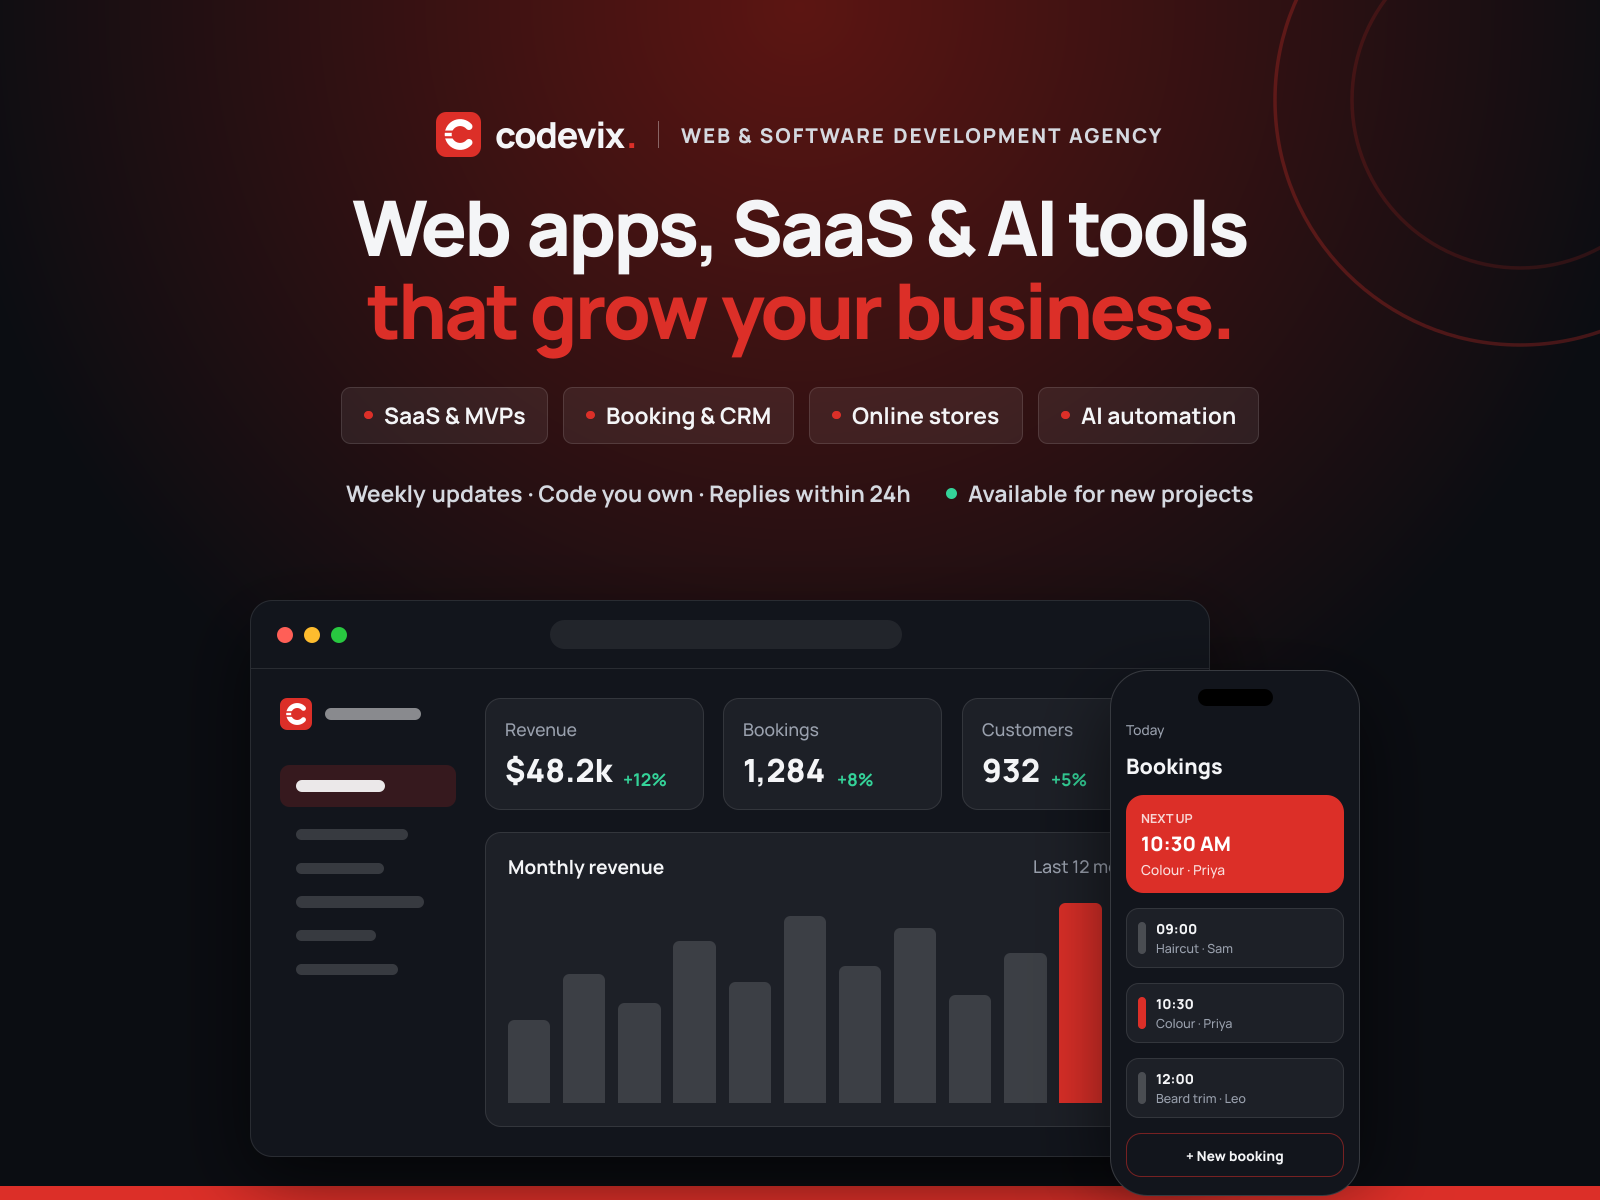
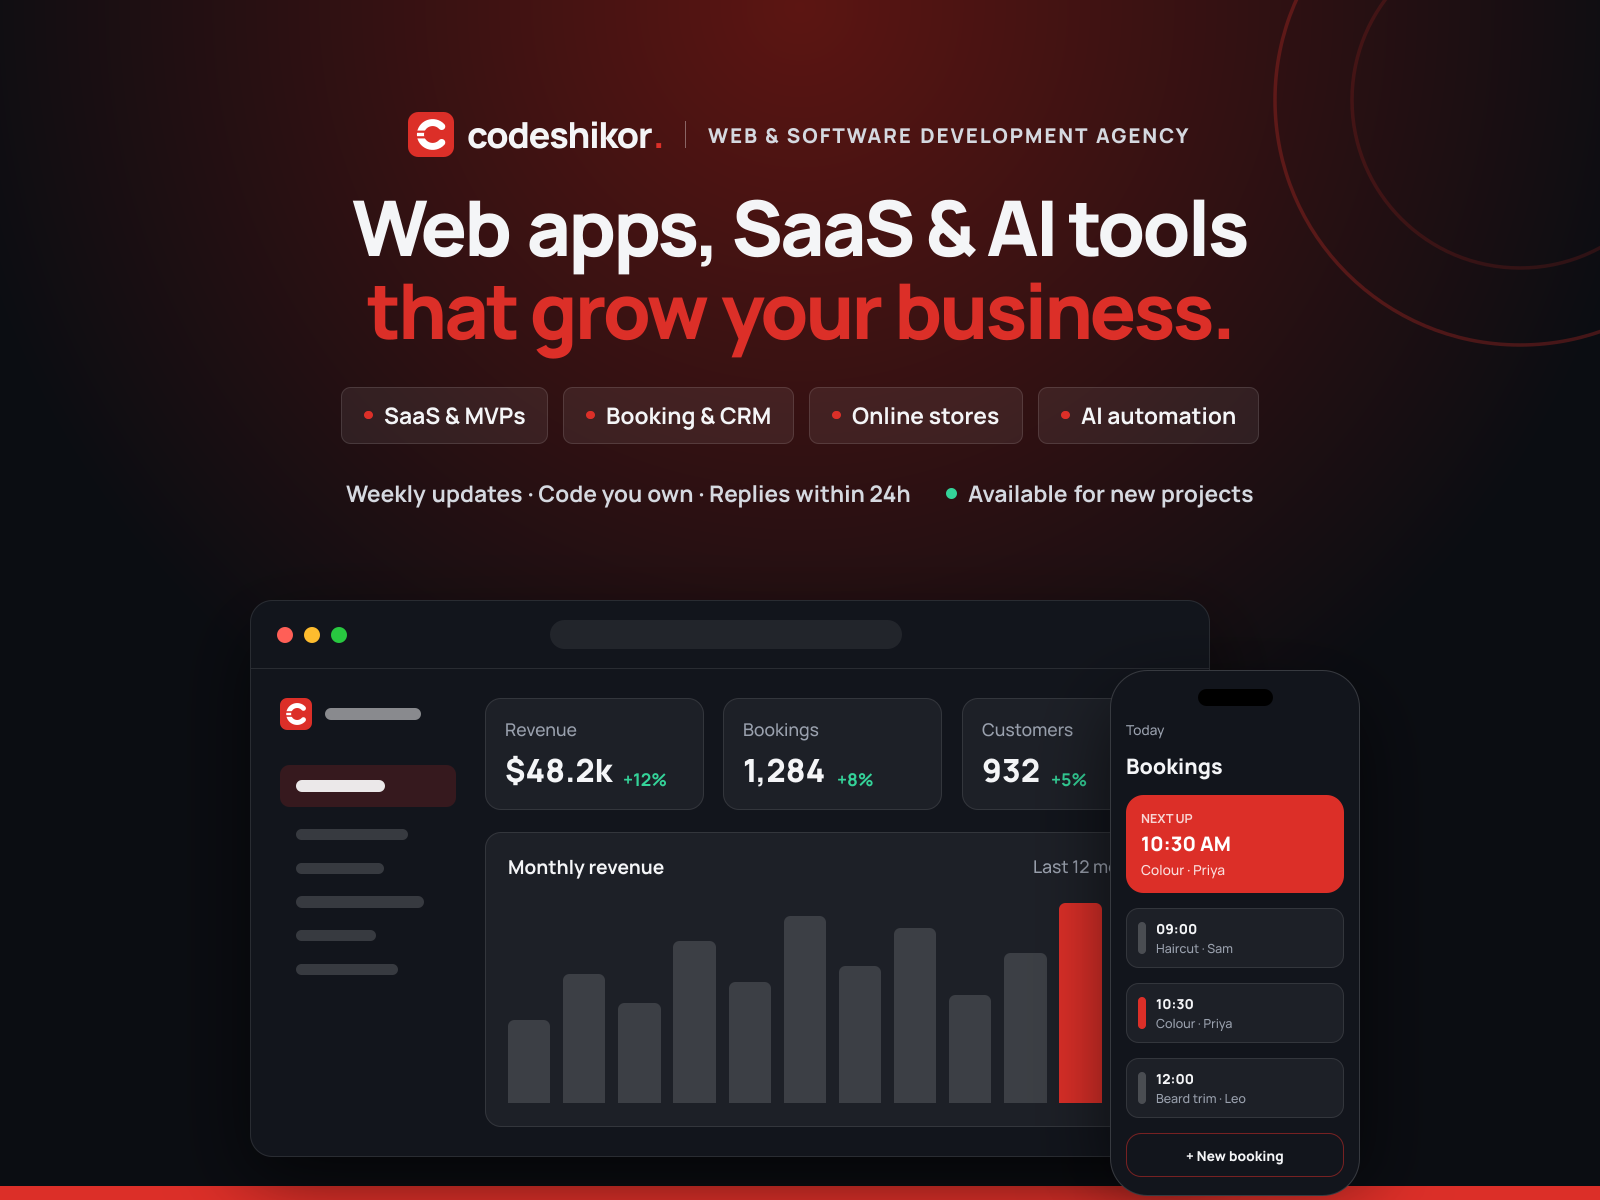
Rebrand from Codevix to Codeshikor
Another established agency already trades as Codevix, so the brand moves to
Codeshikor (Bangla shikor: root). Updates site name, copy, README, social copy
and regenerates all banners. The Stack C mark and colours are unchanged.

Changed region(s): [[0.25, 0.0925, 0.75, 0.1542]]

diff --git a/src/data/site.ts b/src/data/site.ts
@@ -6,9 +6,9 @@ const unsplash = (id: string, w = 1200) =>
 
 export const site = {
   /** Brand shown in the logo */
-  brand: "codevix",
+  brand: "codeshikor",
   /** Name used in page titles, copyright and descriptions */
-  name: "Codevix",
+  name: "Codeshikor",
   role: "Web & Software Development Agency",
   location: "Bagha, Rajshahi, Bangladesh",
   /** Structured address for search engines (country is the ISO code) */
@@ -22,7 +22,7 @@ export const site = {
   /** Live domain: used for canonical URLs, the sitemap, robots.txt and social previews */
   url: "https://alexrivera.dev",
   description:
-    "Codevix is a web development agency building websites, SaaS products and AI tools with Next.js, Vue.js and Laravel for startups and growing businesses.",
+    "Codeshikor is a web development agency building websites, SaaS products and AI tools with Next.js, Vue.js and Laravel for startups and growing businesses.",
   socials: [
     { label: "GitHub", href: "https://github.com/Hshamim" },
     { label: "LinkedIn", href: "https://www.linkedin.com/in/shamim-hosen-254697122/" },
@@ -148,13 +148,13 @@ export const tools = [
 export const testimonials = [
   {
     quote:
-      "Codevix turned a vague idea into a web app our customers genuinely love. Sign-ups doubled within the first month of launch.",
+      "Codeshikor turned a vague idea into a web app our customers genuinely love. Sign-ups doubled within the first month of launch.",
     name: "Sarah Chen",
     title: "Founder, Lumen Health",
   },
   {
     quote:
-      "A rock-solid Laravel backend and a front end that is incredibly fast. Codevix shipped in weeks what we had planned for months.",
+      "A rock-solid Laravel backend and a front end that is incredibly fast. Codeshikor shipped in weeks what we had planned for months.",
     name: "Marcus Webb",
     title: "CTO, Fieldstack",
   },

diff --git a/src/app/about/page.tsx b/src/app/about/page.tsx
@@ -51,7 +51,7 @@ export default function AboutPage() {
           <Reveal className="relative pr-10 pb-16 sm:pr-24">
             <div className="relative aspect-[4/5] overflow-hidden rounded-md shadow-xl">
               {/* Replace photos.team with a photo of your team or office */}
-              <Image src={photos.team} alt="Codevix workspace" fill loading="eager" sizes="(min-width: 1024px) 34vw, 75vw" className="object-cover" />
+              <Image src={photos.team} alt="Codeshikor workspace" fill loading="eager" sizes="(min-width: 1024px) 34vw, 75vw" className="object-cover" />
             </div>
             <div className="absolute right-0 bottom-0 w-1/2 overflow-hidden rounded-md border-8 border-paper shadow-2xl">
               <div className="relative aspect-square">
@@ -71,7 +71,7 @@ export default function AboutPage() {
             </h2>
             <div className="mt-6 space-y-5 text-lg leading-relaxed text-muted-dark">
               <p>
-                Codevix is a {site.role.toLowerCase()} based in {site.location}, with {stats[0].value} years of experience
+                Codeshikor is a {site.role.toLowerCase()} based in {site.location}, with {stats[0].value} years of experience
                 building websites, web apps and SaaS products for startups and small businesses.
               </p>
               <p>

diff --git a/src/components/home/About.tsx b/src/components/home/About.tsx
@@ -31,12 +31,12 @@ export function About() {
         </Reveal>
 
         <Reveal delay={0.1}>
-          <Kicker>About Codevix</Kicker>
+          <Kicker>About Codeshikor</Kicker>
           <h2 className={`mt-4 ${headingCls}`}>
             A development team building <span className="text-accent">modern web apps</span>
           </h2>
           <p className="mt-6 text-lg leading-relaxed text-muted-dark">
-            Codevix is a web development agency with {stats[0].value}+ years of experience. We build front
+            Codeshikor is a web development agency with {stats[0].value}+ years of experience. We build front
             ends in Next.js and Vue.js, backends in Laravel, and use AI to plan, code and test faster.
           </p>
           <ul className="mt-8 space-y-3.5">

diff --git a/src/components/home/WhyUs.tsx b/src/components/home/WhyUs.tsx
@@ -10,7 +10,7 @@ export function WhyUs() {
       <div className="container-x grid lg:grid-cols-2">
         <div className="py-20 lg:py-28 lg:pr-16">
           <Reveal>
-            <Kicker>Why choose Codevix</Kicker>
+            <Kicker>Why choose Codeshikor</Kicker>
             <h2 className={`mt-4 ${headingCls}`}>An experienced team you can rely on</h2>
           </Reveal>
 

diff --git a/brand/social-copy.md b/brand/social-copy.md
@@ -1,4 +1,4 @@
-# Codevix social profiles
+# Codeshikor social profiles
 
 Images in this folder are generated by `node brand/generate.mjs` (edit the `copy` object there to change the wording).
 Replace `[website]` with your live domain before posting.
@@ -12,12 +12,12 @@ Replace `[website]` with your live domain before posting.
 ## Facebook page
 
 - **Banner:** `facebook-cover-1640x624.png` (content sits in the top half, clear of the centred profile photo and the mobile side crop)
-- **Page name:** Codevix
+- **Page name:** Codeshikor
 - **Category:** Web Designer · Software Company
 - **Intro / bio** (101 max):
   > We build web apps, SaaS products and AI tools that grow your business. Free quote within 24 hours.
 - **About:**
-  > Codevix is a web development agency building websites, SaaS products and AI tools for startups and growing businesses.
+  > Codeshikor is a web development agency building websites, SaaS products and AI tools for startups and growing businesses.
   >
   > What we build: SaaS & MVPs, booking & CRM systems, online stores, AI chatbots & automation, business websites, and fixes & upgrades for existing apps.
   >
@@ -29,12 +29,12 @@ Replace `[website]` with your live domain before posting.
 ## LinkedIn company page
 
 - **Banner:** `linkedin-company-2256x382.png` (2x of 1128x191, stays sharp)
-- **Name:** Codevix
+- **Name:** Codeshikor
 - **Tagline** (120 max):
   > Web apps, SaaS & AI tools that grow your business | Free quote within 24 hours
 - **Industry:** Software Development · **Company size:** 2–10
 - **About** (2,000 max):
-  > Codevix is a web and software development agency helping startups and growing businesses turn ideas into working products.
+  > Codeshikor is a web and software development agency helping startups and growing businesses turn ideas into working products.
   >
   > We plan, design, build and launch:
   > • SaaS products & MVPs, with user accounts, subscriptions and admin dashboards
@@ -54,14 +54,14 @@ Replace `[website]` with your live domain before posting.
 
 - **Banner:** `linkedin-profile-1584x396.png` (left side is left clear for your photo)
 - **Headline** (220 max):
-  > Founder @ Codevix | I build web apps, SaaS & AI tools that grow your business | Free quote within 24 hours
+  > Founder @ Codeshikor | I build web apps, SaaS & AI tools that grow your business | Free quote within 24 hours
 
 ---
 
 ## X (Twitter)
 
 - **Header:** `x-header-1500x500.png` (bottom-left is left clear for your photo)
-- **Name** (50 max): Codevix | Web, SaaS & AI
+- **Name** (50 max): Codeshikor | Web, SaaS & AI
 - **Bio** (160 max):
   > Web apps, SaaS & AI tools that grow your business. Weekly updates, code you own. Free quote ↓
 - **Location:** Rajshahi, Bangladesh · **Website:** [website]
@@ -74,11 +74,11 @@ Replace `[website]` with your live domain before posting.
 
 Dribbble profiles have no banner, so `dribbble-shot-1600x1200.png` is an intro shot to upload first and pin.
 
-- **Name:** Codevix
+- **Name:** Codeshikor
 - **Short bio** (160 max):
   > Web & software development agency. We design and build web apps, SaaS products and AI tools for startups and growing businesses.
 - **Location:** Rajshahi, Bangladesh · **Hire me:** on
-- **Intro shot title:** Codevix: web apps, SaaS & AI tools
+- **Intro shot title:** Codeshikor: web apps, SaaS & AI tools
 - **Intro shot description:**
-  > Hello Dribbble 👋 We're Codevix, a web development agency building SaaS products, booking & CRM systems, online stores and AI automation for startups and growing businesses. More work coming soon. Got a project? [website]/contact
+  > Hello Dribbble 👋 We're Codeshikor, a web development agency building SaaS products, booking & CRM systems, online stores and AI automation for startups and growing businesses. More work coming soon. Got a project? [website]/contact
 - **Tags:** web design, saas, dashboard, web app, ui, branding

diff --git a/README.md b/README.md
@@ -1,6 +1,6 @@
-# Codevix
+# Codeshikor
 
-Website for Codevix, a web and software development agency. Built with Next.js 16, Tailwind CSS v4 and Motion.
+Website for Codeshikor, a web and software development agency. Built with Next.js 16, Tailwind CSS v4 and Motion.
 
 ## Run it
 
